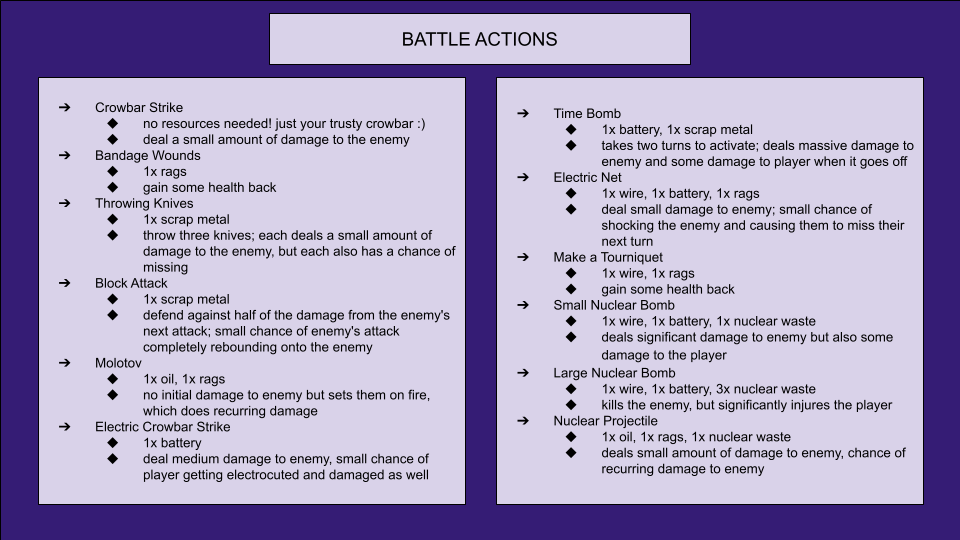
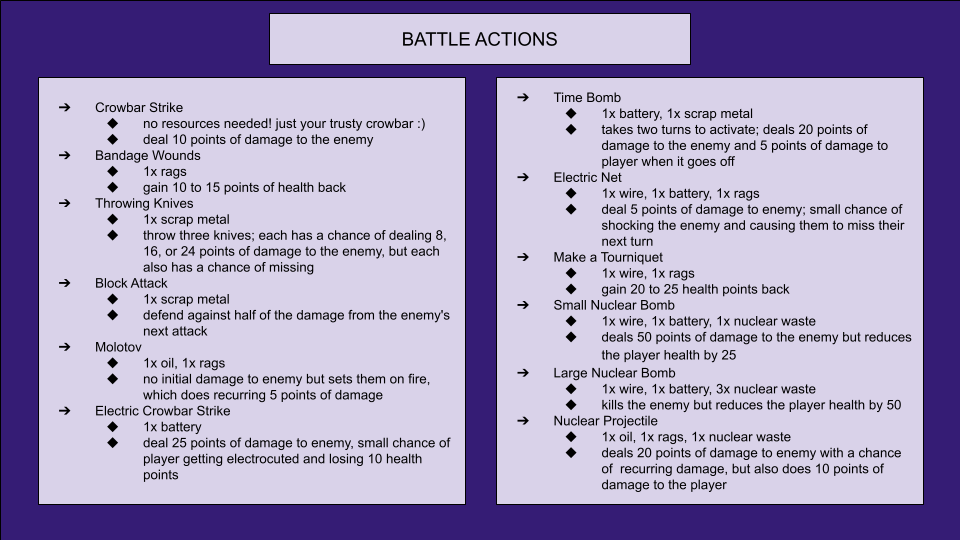
updated help screen and battle logic to match

diff --git a/src/bionic_apocalypse_player.cpp b/src/bionic_apocalypse_player.cpp
@@ -32,7 +32,7 @@ int Player::useMove(const int move){
 		switch (move) {
 			case 1: {
 				setResource(1, -1);
-				int heal = (rand() % 5 + 10);
+				int heal = (rand() % 6 + 10);
 				changePlayerHealth(heal);
 			}break;
 			case 2: {
@@ -65,7 +65,7 @@ int Player::useMove(const int move){
 			case 8: {
 				setResource(1, -1);
 				setResource(4, -1);
-				int heal = (rand() % 5 + 20);
+				int heal = (rand() % 6 + 20);
 				changePlayerHealth(heal);
 			}break;
 			case 9: {
@@ -84,6 +84,7 @@ int Player::useMove(const int move){
 				setResource(2, -1);
 				setResource(1, -1);
 				setResource(5, -1);
+				changePlayerHealth(-10);
 			}break;
 		}
 		return move;

diff --git a/src/bionic_apocalypse_battlelogic.cpp b/src/bionic_apocalypse_battlelogic.cpp
@@ -71,7 +71,11 @@ void Battle::setAttackingTrue(Player &player, int move) {
 			if (enemyDOT) {
 				myEnemy.changeHealth(-5);
 			}
-			myEnemy.changeHealth(bombHandler());
+			int bombValue = bombHandler();
+			if (bombValue != 0) {
+				myEnemy.changeHealth(bombValue);
+				player.changePlayerHealth(-5);
+			}
 			int enemyDamage = myEnemy.randomAttack();
 			if (armored) {
 				if (enemyDamage % 2) {
